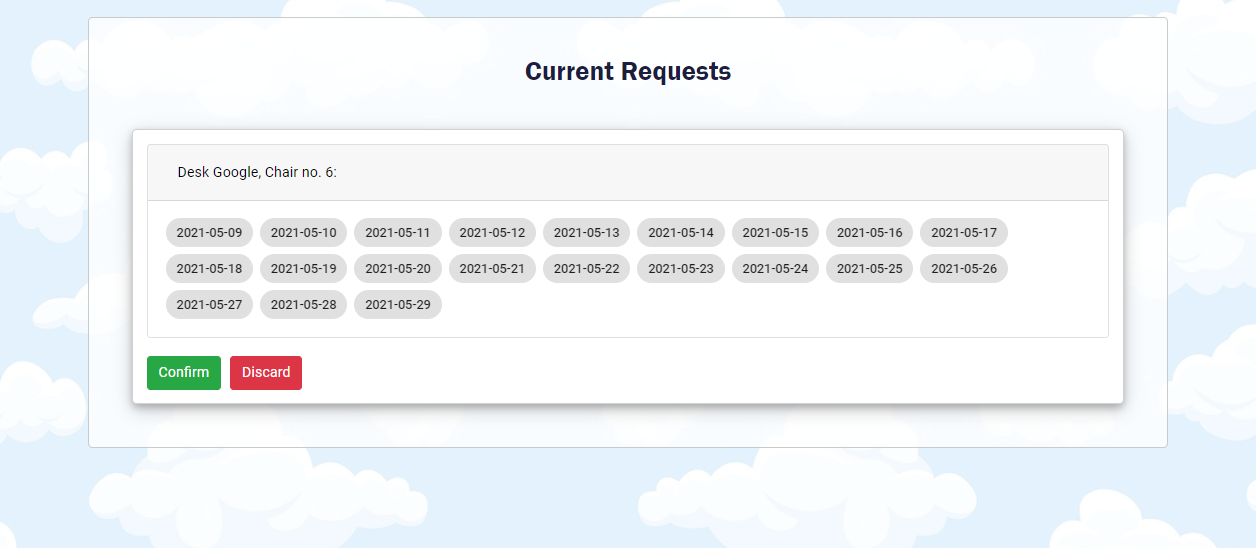
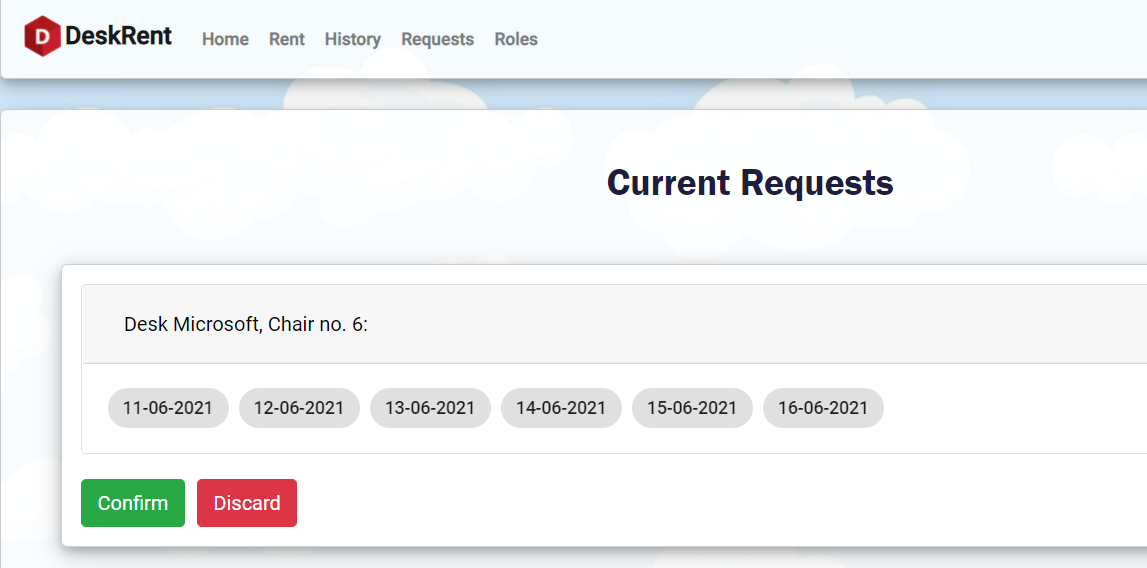
small front-end changes

diff --git a/src/app/pages/renting/desk-room/desk-room.component.ts b/src/app/pages/renting/desk-room/desk-room.component.ts
@@ -82,6 +82,7 @@ export class DeskRoomComponent implements OnInit {
     this.mainService.getDesks().subscribe((response) => {
       this.desks = JSON.parse(JSON.stringify(response));
       this.desk = this.desks[this._id];
+      
 
       this.deskDimensions();
       this.filter = this.filterForDateRange();
@@ -160,7 +161,8 @@ export class DeskRoomComponent implements OnInit {
     this.clickedDeskRequests = this.chairRequests.filter(
       (r) =>
         ch.requests.find((c) => c === r._id) != undefined &&
-        r.status !== 'Discarded'
+        r.status !== 'Discarded' && 
+        this.showDate(r.days[r.days.length - 1])
     );
     // this.clickedDeskRequests = this.clickedDeskRequests.filter(r => r.status !== 'Discarded');
   }
@@ -170,7 +172,8 @@ export class DeskRoomComponent implements OnInit {
     let nrReq = this.chairRequests.filter(
       (r) =>
         ch.requests.find((c) => c === r._id) != undefined &&
-        r.status !== 'Discarded'
+        r.status !== 'Discarded' && 
+        this.showDate(r.days[r.days.length - 1])
     );
 
     return nrReq.length;
@@ -248,8 +251,11 @@ export class DeskRoomComponent implements OnInit {
 
   occupyDesk() {
     // put the request on ChairRequests
-    if (this.bsRangeValue != null) this.selectRange();
+    if (this.bsRangeValue != null) 
+      this.selectRange();
     let days = Array.from(this.daysSelected);
+    if (days.length === 0)
+      return;
     days.sort();
     let ch = this.desk.chairs[this.clickedDesk];
     let chReq: ChairRequest = {
@@ -317,6 +323,10 @@ export class DeskRoomComponent implements OnInit {
     });
 
     // this.ngOnInit();
+  }
+
+  showDate(day) { 
+    return (new Date().getTime() - new Date(day).getTime()) < 86399999; 
   }
 
   reverseDate(date) {

diff --git a/src/app/app.component.html b/src/app/app.component.html
@@ -13,7 +13,7 @@
         <a [routerLink]="['/history']" class="nav-item nav-link"><b>History</b></a>
       </div>
       <div *ngIf="isLoggedIn && role === 'admin'">
-        <a [routerLink]="['/requests']" class="nav-item nav-link"><b>Requests</b></a>
+        <a [routerLink]="['/requests']" class="nav-item nav-link"><b>Requests</b></a> 
       </div>
       <div *ngIf="isLoggedIn && role === 'admin'">
         <a [routerLink]="['/roles']" class="nav-item nav-link"><b>Roles</b></a>
@@ -26,10 +26,13 @@
         </a>
       </div>
       <div *ngIf="isLoggedIn">
-        <a [routerLink]="['/profile']" class="nav-item nav-link user"><b>{{username}}</b></a>
+        <a [routerLink]="['/profile']" class="nav-item nav-link user">
+          <img src="{{user.photo}}" alt="Admin" class="rounded-circle" style="width:20px; height:20px; margin-right: 5px;">
+          <b> {{username}}</b>  
+        </a>
       </div>
       <div *ngIf="!isLoggedIn">
-        <a [routerLink]="['/login']" class="nav-item nav-link"><b>Login</b></a>
+        <a [routerLink]="['/login']" class="nav-item nav-link p4"><b>Login</b></a>
       </div>
       <div *ngIf="!isLoggedIn">
         <a [routerLink]="['/register']" class="nav-item nav-link"><b>Register</b></a>
@@ -54,3 +57,5 @@
     <b>© 2021 Copyright: <a href="https://fmi.unibuc.ro/"> FMI UniBuc </a></b>   
   </div>
 </footer>
+
+<notifier-container></notifier-container>

diff --git a/src/app/pages/admin/requests/requests.component.ts b/src/app/pages/admin/requests/requests.component.ts
@@ -1,4 +1,5 @@
 import { Component, OnInit } from '@angular/core';
+import { NotifierService } from 'angular-notifier';
 import { ChairRequest } from 'src/app/interfaces/chair-request';
 import { Desk } from 'src/app/interfaces/desk';
 import { RentRequest } from 'src/app/interfaces/rent-request';
@@ -31,7 +32,9 @@ export class RequestsComponent implements OnInit {
   filterDate = '';
   filterUser = '';
 
-  constructor(private mainService: MainService) {}
+  constructor(private mainService: MainService,
+    private notifierService: NotifierService
+  ) {}
 
   ngOnInit(): void {
     this.mainService
@@ -83,6 +86,8 @@ export class RequestsComponent implements OnInit {
   }
 
   accept(id) {
+    this.notifierService.notify('success', 'The request was accepted!');
+
     this.rentRequests[id].status = 'Accepted';
 
     this.mainService
@@ -100,6 +105,8 @@ export class RequestsComponent implements OnInit {
   }
 
   reject(id) {
+    this.notifierService.notify('warning', 'The request was rejected!');
+
     this.rentRequests[id].status = 'Rejected';
 
     for (let chReqId of this.rentRequests[id].requests) {

diff --git a/src/app/app.module.ts b/src/app/app.module.ts
@@ -6,6 +6,7 @@ import { HttpClientModule } from '@angular/common/http';
 import { AppComponent } from './app.component';
 import { CommonModule } from '@angular/common';
 import { DragDropModule } from '@angular/cdk/drag-drop';  
+import { NotifierModule } from 'angular-notifier';
 
 // Bootstrap Modules
 import { BrowserAnimationsModule } from '@angular/platform-browser/animations';
@@ -71,7 +72,7 @@ import { RolesComponent } from './pages/admin/roles/roles.component';
     AppRoutingModule,
     CommonModule,
     BrowserModule,
-    FormsModule,
+    FormsModule, 
     ReactiveFormsModule,
     HttpClientModule,
     BrowserAnimationsModule,
@@ -95,7 +96,8 @@ import { RolesComponent } from './pages/admin/roles/roles.component';
     MatProgressBarModule,
     MatCheckboxModule,
     MatSelectModule,
-    MatSlideToggleModule
+    MatSlideToggleModule,
+    NotifierModule
   ],  
   providers: [
     RentComponent,   
@@ -103,5 +105,5 @@ import { RolesComponent } from './pages/admin/roles/roles.component';
     MapComponent
   ],
   bootstrap: [AppComponent],
-})
+})      
 export class AppModule {}

diff --git a/src/app/pages/admin/roles/roles.component.ts b/src/app/pages/admin/roles/roles.component.ts
@@ -2,6 +2,7 @@ import { Component, OnInit, ViewChild } from '@angular/core';
 import { MatPaginator } from '@angular/material/paginator';
 import { MatSort } from '@angular/material/sort';
 import { MatTableDataSource } from '@angular/material/table';
+import { NotifierService } from 'angular-notifier';
 import { MainService } from 'src/app/services/main.service';
 
 @Component({
@@ -13,7 +14,9 @@ export class RolesComponent implements OnInit {
 
   users = [];
 
-  constructor(private mainService: MainService) { }
+  constructor(private mainService: MainService,
+    private notifierService: NotifierService
+  ) { }
 
   ngOnInit(): void {
     this.mainService.getAllUsers().subscribe(response => {
@@ -28,7 +31,8 @@ export class RolesComponent implements OnInit {
     let u = this.users.find(u => u._id === id)
     u.userType = role;
     this.mainService.updateUser(u).subscribe();
-    
+
+    this.notifierService.notify('success', u.username + ' is now ' + role.toLowerCase() + '!');
   }
 
   displayedColumns: string[] = ['_id', 'username', 'role'];

diff --git a/src/app/pages/renting/desk-room/desk-room.component.html b/src/app/pages/renting/desk-room/desk-room.component.html
@@ -32,7 +32,7 @@
 
 <ng-template #template>
   <div style="padding-top: 30px;  text-align: center;" class="modal-header">
-    <p class="p3">Location: {{this.desk.name}}, Desk {{clickedDesk + 1}}</p>
+    <p style="margin-left:auto;" class="p3">Location: {{this.desk.name}}, Desk {{clickedDesk + 1}}</p>
 
     <button type="button" class="close pull-right" aria-label="Close" (click)="modalRef.hide()">
       <span aria-hidden="true">&times;</span>
@@ -54,9 +54,13 @@
           </ng-template>
           <ng-template ngbPanelContent>
             <mat-chip-list>
-              <mat-chip *ngFor="let day of req.days">
-                {{ reverseDate(day) }}
-              </mat-chip>
+              <div *ngFor="let day of req.days">
+                <div *ngIf="showDate(day)">
+                  <mat-chip>
+                    {{ reverseDate(day) }}
+                  </mat-chip>
+                </div>
+              </div>
             </mat-chip-list>
           </ng-template>
         </ngb-panel>

diff --git a/src/app/pages/user/profile/profile.component.ts b/src/app/pages/user/profile/profile.component.ts
@@ -1,4 +1,5 @@
 import { Component, OnInit, ViewChild } from '@angular/core';
+import { NotifierService } from 'angular-notifier';
 import { User } from 'src/app/interfaces/user';
 import { MainService } from 'src/app/services/main.service';
 
@@ -8,7 +9,9 @@ import { MainService } from 'src/app/services/main.service';
   styleUrls: ['./profile.component.css'],
 })
 export class ProfileComponent implements OnInit {
-  constructor(private mainService: MainService) {}
+  constructor(private mainService: MainService,
+    private notifierService: NotifierService
+  ) {}
   user: User = { _id: 0, username: '', email: '', phone: '', location: '', website_link: '', request_count: 0, photo: '', userType: 'normal'};
   role = localStorage.getItem('role');
 
@@ -30,6 +33,7 @@ export class ProfileComponent implements OnInit {
 
   saveChanges() {
     this.mainService.updateUser(this.user).subscribe();
+    this.notifierService.notify('success', 'The profile was updated!');
   }
 
   changePhoto() {

diff --git a/src/app/pages/home/home.component.ts b/src/app/pages/home/home.component.ts
@@ -7,7 +7,7 @@ import { Component, OnInit } from '@angular/core';
 })
 export class HomeComponent implements OnInit {
   constructor() { }
-  ngOnInit(): void {}
+  ngOnInit(): void { }
 
   myInterval = 5000;
   activeSlideIndex = 0;
@@ -15,10 +15,11 @@ export class HomeComponent implements OnInit {
 
   slides = [
     {image: 'assets/ss/rent.png'},
-    {image: 'assets/ss/google.png'},
+    {image: 'assets/ss/microsoft.png'},
     {image: 'assets/ss/renting.png'},
     {image: 'assets/ss/send.png'},
-    {image: 'assets/ss/history.png'},
+    {image: 'assets/ss/acc.png'},
+    {image: 'assets/ss/result.png'},
   ];
 
   texts = [
@@ -27,5 +28,6 @@ export class HomeComponent implements OnInit {
     'Enter a specific date or a date-range for when you want to go coding',
     'Confirm the request',
     'Wait until an Admin accepts your request',
+    'You are done!',
   ]
 }

diff --git a/src/styles.css b/src/styles.css
@@ -36,14 +36,14 @@
   max-width: 1200px;
   margin:    0 auto; 
   background-color: rgb(238, 238, 238);
-  background-image: linear-gradient(rgba(255, 255, 255, 0.75), rgba(255, 255, 255, 0.75)), url("/assets/images/bg.jpg");
+  background-image: linear-gradient(rgba(255, 255, 255, 0.75), rgba(255, 255, 255, 0.75)), url("/assets/images/bga.gif");
 }
 
 .bdyAnimation { 
     max-width: 1200px;
     margin:    0 auto; 
     background-color: rgb(238, 238, 238);
-    background-image: linear-gradient(rgba(255, 255, 255, 0.75), rgba(255, 255, 255, 0.75)), url("/assets/images/bg.jpg");
+    background-image: linear-gradient(rgba(255, 255, 255, 0.75), rgba(255, 255, 255, 0.75)), url("/assets/images/bga.gif");
     background-position: left center;
     animation-name: moving;
     animation-duration: 30s; 

diff --git a/src/app/app.component.ts b/src/app/app.component.ts
@@ -1,15 +1,31 @@
 import { Component, OnInit } from '@angular/core';
 import { MainService } from './services/main.service';
+import { NotifierService } from 'angular-notifier';
 
 @Component({
   selector: 'app-root',
   templateUrl: './app.component.html',
   styleUrls: ['./app.component.css'],
 })
+
+
 export class AppComponent implements OnInit {
-  constructor(private mainService: MainService) {}
+  constructor(private mainService: MainService,
+    private notifierService: NotifierService
+  ) {}
+
   rentRequests = [];
-  user;
+  user = {
+    _id: 0,
+    username: '',
+    email: '',
+    phone: '',
+    location: '',
+    website_link: '',
+    request_count: 0,
+    photo: '',
+    userType: 'normal',
+  };
   req;
   nr;
   desks;

diff --git a/src/app/pages/renting/rent/rent.component.html b/src/app/pages/renting/rent/rent.component.html
@@ -41,14 +41,14 @@
     </ng-container>
 
     <tr mat-header-row *matHeaderRowDef="displayedColumns"></tr>
-    <tr style="cursor: pointer;" [routerLink]="['/deskRoom', i]" mat-row
+    <tr style="cursor: pointer;" [routerLink]="['/deskRoom', row._id]" mat-row
       *matRowDef="let row; columns: displayedColumns;let i = index"></tr>
 
     <tr class="mat-row" *matNoDataRow>
       <td class="mat-cell" colspan="4">No data matching the filter "{{input.value}}"</td>
     </tr>
   </table>
-  <mat-paginator [pageSizeOptions]="[10, 25, 100]"></mat-paginator>
+  <mat-paginator [pageSizeOptions]="[10, 25, 100]"></mat-paginator>  
 </div>
 
 <button *ngIf="role === 'admin'" style="margin-top: 30px;" class="btn btn-info col-3"

diff --git a/src/app/app-routing.module.ts b/src/app/app-routing.module.ts
@@ -14,6 +14,7 @@ import { RequestsComponent } from './pages/admin/requests/requests.component';
 import { RolesComponent } from './pages/admin/roles/roles.component';
 import { PublicGuard } from './guards/public.guard';
 import { PrivateGuard } from './guards/private.guard';
+import { LoginGuard } from './guards/login.guard';
 
 const routes : Routes = [
   {
@@ -22,11 +23,13 @@ const routes : Routes = [
   },
   {
     path: 'login',
-    component: LoginComponent
+    component: LoginComponent,
+    canActivate: [LoginGuard]
   },
   {
     path: 'register',
-    component: RegisterComponent
+    component: RegisterComponent,
+    canActivate: [LoginGuard]
   },
   {
     path: 'rent',
